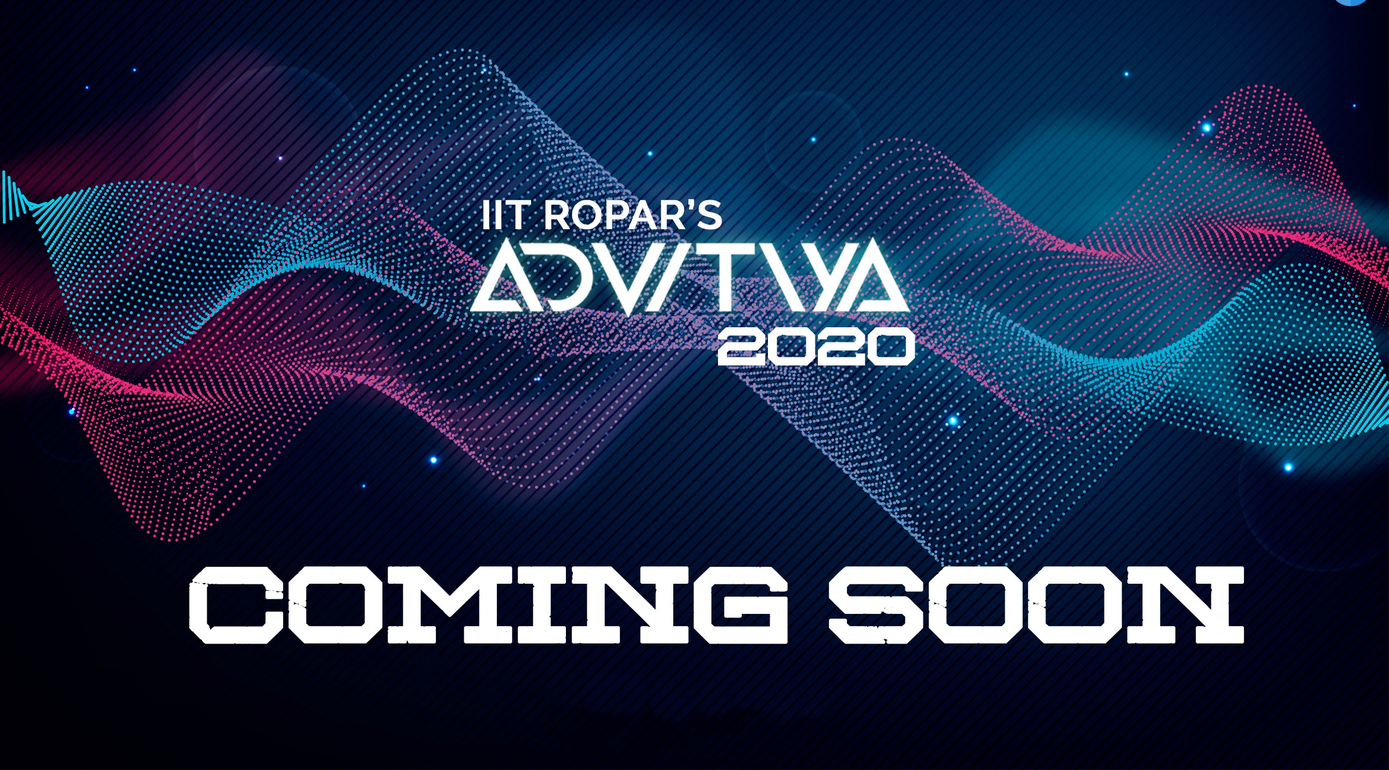
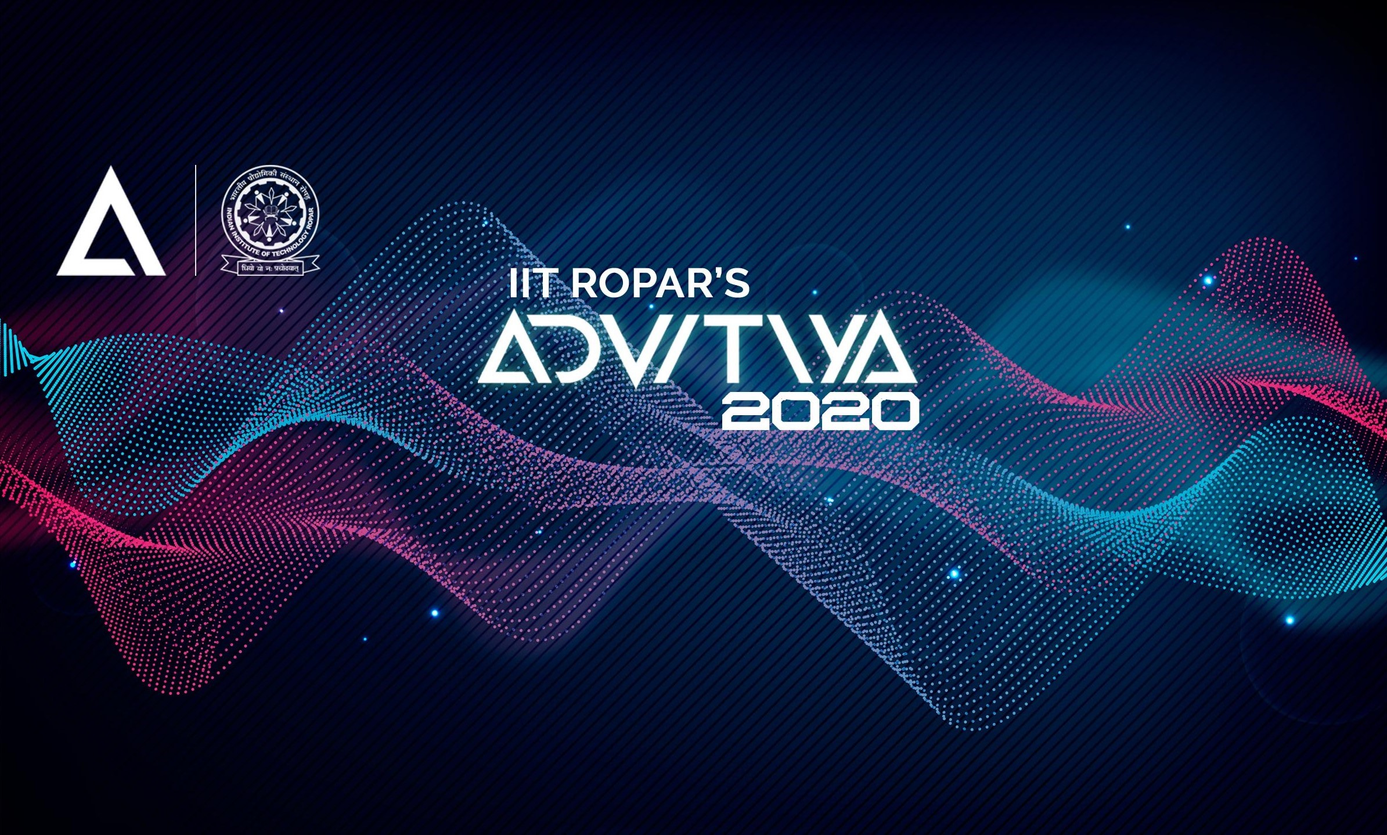
Change home image

diff --git a/main_page/templates/main_page/base.html b/main_page/templates/main_page/base.html
@@ -16,6 +16,13 @@
         href="https://cdnjs.cloudflare.com/ajax/libs/material-design-iconic-font/2.2.0/css/material-design-iconic-font.min.css">
     <link href="{% static 'main_page/css/style.css' %}" rel="stylesheet">
     <title>{% block title %} Advitiya{%endblock%} </title>
+    <style>
+        @media only screen and (min-width: 980px) {
+            .resizeflex {
+                display: flex;
+            }
+        }
+    </style>
 </head>
 
 <body style="margin: 0;">
@@ -42,11 +49,12 @@
 
                         <!-- Nav Start -->
                         <div class="classynav">
-                            <ul id="nav" style="display: flex;">
+                            <ul id="nav" class="resizeflex">
                                 <li><a href="{% url 'main_page:index' %}">Home</a></li>
-                                <li><a href="{% url 'TSP:home' %}">TSP</a>
-                                </li>
+
                                 <li><a href="{% url 'main_page:events'%}">Events</a></li>
+                                
+                                <li><a href="{% url 'TSP:home' %}">TSP</a></li>
 
                                 <li><a href="{% url 'ca:home' %}">Campus Ambassador</a></li>
                                 {% if user.is_authenticated %}
@@ -63,9 +71,12 @@
 
                             <!-- Signing in -->
                             {% if not user.is_authenticated %}
-                            <a href="{% provider_login_url 'google' %}?next={% url 'main_page:index' %}"
+                            <!-- <a href="{% provider_login_url 'google' %}?next={% url 'main_page:index' %}"
                                 class="vcenter"><img src="{% static 'ca/img/gsignin.png' %}" class='gsignin-btn'
-                                    height="50px" width="50px" alt="" srcset=""></a>
+                                    height="50px" width="50px" alt="" srcset="">google</a> -->
+                            <a href="{% provider_login_url 'google' %}?next={% url 'main_page:index' %}"
+                                class="btn btn-secondary" style="margin-bottom: 3px;">
+                                <i class="fab fa-google"></i> Sign In</a>
                             {% endif %}
                         </div>
                     </div>

diff --git a/main_page/templates/main_page/index.html b/main_page/templates/main_page/index.html
@@ -15,7 +15,7 @@
         <div class="welcome-slides owl-carousel">
             <!-- Single Slide -->
             <div class="single-welcome-slide bg-img bg-overlay jarallax"
-                style="background-image: url(static/main_page/img/bg-img/coming_soon.jpg); opacity: 1;">
+                style="background-image: url(static/main_page/img/bg-img/coming_soon.jpg);">
                 <div class="container h-100">
                     <div class="row h-100 align-items-center">
                         <!-- Welcome Text -->
@@ -152,7 +152,7 @@
                         <p> IIT's are not only the technological hubs of their regions but are also known for
                             amalgamating education with fun-filled extra-curricular activities.In this regard the IIT
                             Ropar organises its science and technology fest Advitiya whose third edition was organised
-                            last year. Continuing with that tradition; with immense pleasure and pride we please to
+                            last year. Continuing with that tradition with immense pleasure and pride we please to
                             announce Advitiya 2020. <br><br></p>
                         <!-- Single client Thumb and info --><br>
                         <div class="single-client-thumb-info d-flex align-items-center">

diff --git a/main_page/static/main_page/css/style.css b/main_page/static/main_page/css/style.css
@@ -112,7 +112,7 @@ ul {
     top: 0;
     left: 0;
     z-index: -1;
-    background-color: rgba(0, 0, 0, 0.4); }
+    background-color: rgba(0, 0, 0, 0.2); }
 
 .bg-gradient-overlay {
   position: relative;

diff --git a/main_page/views.py b/main_page/views.py
@@ -25,6 +25,8 @@ def profile(request):
     return render(request,'main_page/profile.html', {'participant' : participant,'CATEGORY_CHOCIES': CATEGORY_CHOCIES})
 
 def events(request):
+    return render(request, 'main_page/show_info.html', {'message':"This Section is revealing soon.",
+                    'CATEGORY_CHOCIES': CATEGORY_CHOCIES})
     events_list = {}
     for category in CATEGORY_CHOCIES:
         events_list[category[1]] = Events.objects.filter(category = category[0])
